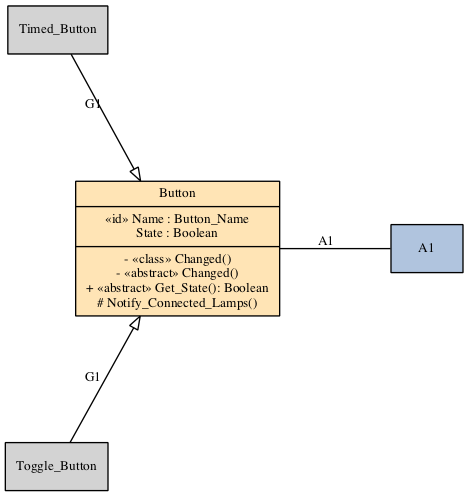
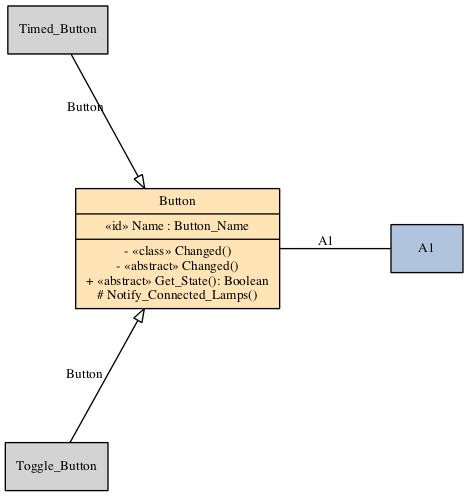
Merged tuml-mode.

Changed region(s): [[0.1496, 0.332, 0.5983, 0.664], [0.1496, 0.7243, 0.2094, 0.7847], [0.1496, 0.1811, 0.2094, 0.2414]]

diff --git a/House_Management.html b/House_Management.html
@@ -51,30 +51,30 @@
    <body>
       <h1>House_Management</h1>
       <p xmlns="">Copyright (C) Simon Wright &lt;simon@pushface.org&gt;</p>
-      <p xmlns="">This package is free software; you can redistribute it and/or modify it under terms of the GNU General Public License as published
-         by the Free Software Foundation; either version 2, or (at your option) any later version. This package is distributed in the
-         hope that it will be useful, but WITHOUT ANY WARRANTY; without even the implied warranty of MERCHANTABILITY or FITNESS FOR
-         A PARTICULAR PURPOSE. See the GNU General Public License for more details. You should have received a copy of the GNU General
-         Public License distributed with this package; see file COPYING. If not, write to the Free Software Foundation, 59 Temple Place
-         - Suite 330, Boston, MA 02111-1307, USA.
+      <p xmlns="">     This package is free software; you can redistribute it and/or modify it      under terms of the GNU General Public License
+         as published by the Free      Software Foundation; either version 2, or (at your option) any later      version. This package
+         is distributed in the hope that it will be useful,      but WITHOUT ANY WARRANTY; without even the implied warranty of   
+         MERCHANTABILITY or FITNESS FOR A PARTICULAR PURPOSE. See the GNU      General Public License for more details. You should
+         have received      a copy of the GNU General Public License distributed with this package;      see file COPYING. If not,
+         write to the Free Software Foundation, 59      Temple Place - Suite 330, Boston, MA 02111-1307, USA.
       </p>
-      <p xmlns="">This domain represents an electronic household control system.</p>
-      <p xmlns="">The first release only manages the stairwell lighting system.</p>
+      <p xmlns="">     This domain represents an electronic household control system.</p>
+      <p xmlns="">     The first release only manages the stairwell lighting system.</p>
       <h1>Contents</h1>
       <h2>All classes</h2><map xmlns="" id="overall" name="overall">
-         <area shape="rect" id="node1" href="#A1" title="\N" alt="" coords="256,121,328,170">
+         <area shape="rect" id="node1" href="#A1" title="\N" alt="" coords="257,121,329,170">
          <area shape="rect" id="node2" href="#Button" title="\N" alt="" coords="144,6,216,55">
-         <area shape="poly" id="edge2" href="#A1" title="A1" alt="" coords="205,53,271,119,267,123,201,57">
+         <area shape="poly" id="edge2" href="#A1" title="A1" alt="" coords="205,53,272,119,268,123,202,57">
          <area shape="rect" id="edge2-label" href="#A1" title="A1" alt="" coords="244,81,261,95">
          <area shape="rect" id="node4" href="#Timed_Button" title="\N" alt="" coords="5,121,104,170">
-         <area shape="poly" id="edge3" href="#G1" title="G1" alt="" coords="146,66,82,123,78,119,142,62">
-         <area shape="rect" id="edge3-label" href="#G1" title="G1" alt="" coords="125,81,143,95">
+         <area shape="poly" id="edge3" href="#Button" title="Button" alt="" coords="146,66,82,123,78,119,142,62">
+         <area shape="rect" id="edge3-label" href="#Button" title="Button" alt="" coords="125,81,163,95">
          <area shape="rect" id="node5" href="#Toggle_Button" title="\N" alt="" coords="129,121,231,170">
-         <area shape="poly" id="edge4" href="#G1" title="G1" alt="" coords="183,69,183,121,177,121,177,69">
-         <area shape="rect" id="edge4-label" href="#G1" title="G1" alt="" coords="180,81,197,95">
-         <area shape="rect" id="node3" href="#Lamp" title="\N" alt="" coords="256,6,328,55">
-         <area shape="poly" id="edge1" href="#A1" title="A1" alt="" coords="295,55,295,121,289,121,289,55">
-         <area shape="rect" id="edge1-label" href="#A1" title="A1" alt="" coords="292,81,309,95"></map><img src="House_Management.images/House_Management.overall.png" border="0" ismap="true" usemap="#overall" alt="Class diagram for House_Management"></img><h2>Private Classes</h2>
+         <area shape="poly" id="edge4" href="#Button" title="Button" alt="" coords="183,69,183,121,177,121,177,69">
+         <area shape="rect" id="edge4-label" href="#Button" title="Button" alt="" coords="180,81,217,95">
+         <area shape="rect" id="node3" href="#Lamp" title="\N" alt="" coords="260,6,332,55">
+         <area shape="poly" id="edge1" href="#A1" title="A1" alt="" coords="298,55,297,121,291,121,293,55">
+         <area shape="rect" id="edge1-label" href="#A1" title="A1" alt="" coords="296,81,313,95"></map><img src="House_Management.images/House_Management.overall.png" border="0" ismap="true" usemap="#overall" alt="Class diagram for House_Management"></img><h2>Private Classes</h2>
       <ul>
          <li xmlns=""><a href="#A1">A1</a></li>
          <li xmlns=""><a href="#Button">Button</a></li>
@@ -84,7 +84,7 @@
       </ul>
       <h2>Inheritance relationships</h2>
       <ul>
-         <li xmlns=""><a href="#G1">G1</a></li>
+         <li xmlns=""><a href="#Button">Button</a></li>
       </ul>
       <h2>Types</h2>
       <ul>
@@ -104,48 +104,41 @@
          <area shape="rect" id="edge2-label" href="#A1" title="A1" alt="" coords="280,29,297,44">
          <area shape="rect" id="node3" href="#Lamp" title="\N" alt="" coords="5,19,77,69">
          <area shape="poly" id="edge1" href="#A1" title="A1" alt="" coords="176,47,77,47,77,41,176,41">
-         <area shape="rect" id="edge1-label" href="#A1" title="A1" alt="" coords="109,29,127,44"></map><img xmlns="" src="House_Management.images/House_Management.A1.class.png" border="0" ismap="true" usemap="#A1.class" alt="Context class diagram for A1"><p xmlns="">Eacb Button controls one or more Lamps; each Lamp is controlled by one or more Buttons.</p>
-      <p xmlns="">There's no association-specific data, but this has to be an association class because it's a many-to-many relationship.</p>
+         <area shape="rect" id="edge1-label" href="#A1" title="A1" alt="" coords="109,29,127,44"></map><img xmlns="" src="House_Management.images/House_Management.A1.class.png" border="0" ismap="true" usemap="#A1.class" alt="Context class diagram for A1"><p xmlns="">Eacb Button controls one or more Lamps; each Lamp is controlled by        one or more Buttons.</p>
+      <p xmlns="">       There's no association-specific data, but this has to be an        association class because it's a many-to-many relationship.</p>
       <p xmlns="">This is an Association Class.</p>
       <h3 xmlns="">Roles</h3>
       <p xmlns=""><a href="#Button">Button</a> (1..n) <i>Controls</i> (1..n) <a href="#Lamp">Lamp</a></p>
       <p xmlns=""><a href="#Lamp">Lamp</a> (1..n) <i>Is_Controlled_By</i> (1..n) <a href="#Button">Button</a></p>
       <h2 xmlns=""><a name="Button">Button</a></h2><map xmlns="" id="Button.class" name="Button.class">
-         <area shape="rect" id="node1" href="#Button" title="{Button|&laquo;id&raquo; Name : Button_Name\nState : Boolean|- &laquo;class&raquo; Changed()\n- &laquo;abstract&raquo; Changed()\n+ &laquo;abstract&raquo; Get_State(): Boolean\n# Notify_Connected_Lamps()}" alt="" coords="76,181,280,317">
+         <area shape="rect" id="node1" href="#Button" title="{Button|&laquo;id&raquo; Name : Button_Name|- &laquo;class&raquo; Changed()\n- &laquo;abstract&raquo; Changed()\n+ &laquo;abstract&raquo; Get_State(): Boolean\n# Notify_Connected_Lamps()}" alt="" coords="76,188,280,309">
          <area shape="rect" id="node2" href="#A1" title="\N" alt="" coords="391,224,463,273">
          <area shape="poly" id="edge1" href="#A1" title="A1" alt="" coords="280,246,391,246,391,251,280,251">
          <area shape="rect" id="edge1-label" href="#A1" title="A1" alt="" coords="318,234,335,249">
          <area shape="rect" id="node3" href="#Timed_Button" title="\N" alt="" coords="8,5,108,55">
-         <area shape="poly" id="edge2" href="#G1" title="G1" alt="" coords="73,53,136,168,132,170,69,56">
-         <area shape="rect" id="edge2-label" href="#G1" title="G1" alt="" coords="85,97,103,112">
+         <area shape="poly" id="edge2" href="#Button" title="Button" alt="" coords="73,53,140,175,136,177,69,56">
+         <area shape="rect" id="edge2-label" href="#Button" title="Button" alt="" coords="67,101,105,115">
          <area shape="rect" id="node4" href="#Toggle_Button" title="\N" alt="" coords="5,442,108,491">
-         <area shape="poly" id="edge3" href="#G1" title="G1" alt="" coords="68,441,131,327,136,329,72,444">
-         <area shape="rect" id="edge3-label" href="#G1" title="G1" alt="" coords="85,371,102,385"></map><img xmlns="" src="House_Management.images/House_Management.Button.class.png" border="0" ismap="true" usemap="#Button.class" alt="Context class diagram for Button"><p xmlns="">There is a pushbutton on each landing. Each pushbutton controls a number of Lamps; when the button is pushed, the lamps are
-         activated.
+         <area shape="poly" id="edge3" href="#Button" title="Button" alt="" coords="68,441,135,320,140,322,72,444">
+         <area shape="rect" id="edge3-label" href="#Button" title="Button" alt="" coords="66,367,104,382"></map><img xmlns="" src="House_Management.images/House_Management.Button.class.png" border="0" ismap="true" usemap="#Button.class" alt="Context class diagram for Button"><p xmlns="">There are one or more pushbuttons on each landing. Each pushbutton        controls a number of Lamps; if any of the controlling
+         Buttons is set,        the controlled Lamp is lit.
       </p>
-      <p xmlns="">Supertype in <a href="#G1">G1</a>.
+      <p xmlns="">Supertype in <a href="#Button">Button</a>.
          
       </p>
       <h3 xmlns="">Identifying attributes</h3>
       <dl xmlns="">
          <dt>Name : <a href="#Button_Name">Button_Name</a></dt>
          <dd>
-            <p>Each Button is uniquely identified by its name. The name corresponds to the geographical location of the button.</p>
-         </dd>
-      </dl>
-      <h3 xmlns="">Normal attributes</h3>
-      <dl xmlns="">
-         <dt>State : Boolean, initial value False</dt>
-         <dd>
-            <p>The current state of the Button.</p>
+            <p>Each Button is uniquely identified by its name. The name corresponds          to the geographical location of the button.</p>
          </dd>
       </dl>
       <h3 xmlns="">Private class operations</h3>
       <dl xmlns="">
          <dt><a name="Button.Changed">Changed</a></dt>
          <dd>
-            <p>Acts as receiver of state changes from Digital IO, via Input_Signal State Callback. Calls the instance Changed so the Button
-               can take the appropriate action.
+            <p>Acts as receiver of state changes from Digital IO, via          Signal State Callback. Calls the instance Changed so the Button
+                        can take the appropriate action.
             </p>
             <p>Parameters:</p>
             <dl>
@@ -158,15 +151,13 @@
       <dl xmlns="">
          <dt><a name="Button.Get_State">Get_State</a>, abstract returns Boolean
          </dt>
-         <dd>
-            <p>Returns the Button's State.</p>
-         </dd>
+         <dd></dd>
       </dl>
       <h3 xmlns="">Protected instance operations</h3>
       <dl xmlns="">
          <dt><a name="Button.Notify_Connected_Lamps">Notify_Connected_Lamps</a></dt>
          <dd>
-            <p>Called to indicate to connected Lamps that the Button's state has changed.</p>
+            <p>Called to indicate to connected Lamps that the Button's state          has changed.</p>
          </dd>
       </dl>
       <h3 xmlns="">Private instance operations</h3>
@@ -190,10 +181,14 @@
          <area shape="rect" id="node1" href="#Lamp" title="{Lamp|&laquo;id&raquo; Name : Lamp_Name|- &laquo;class&raquo; Initialize()\n+ Changed()\n- Output_For_Lamp(): Output_Signal}" alt="" coords="5,5,229,112">
          <area shape="rect" id="node2" href="#A1" title="\N" alt="" coords="325,34,397,83">
          <area shape="poly" id="edge1" href="#A1" title="A1" alt="" coords="229,56,325,56,325,61,229,61">
-         <area shape="rect" id="edge1-label" href="#A1" title="A1" alt="" coords="260,44,277,59"></map><img xmlns="" src="House_Management.images/House_Management.Lamp.class.png" border="0" ismap="true" usemap="#Lamp.class" alt="Context class diagram for Lamp"><h3 xmlns="">Identifying attributes</h3>
+         <area shape="rect" id="edge1-label" href="#A1" title="A1" alt="" coords="260,44,277,59"></map><img xmlns="" src="House_Management.images/House_Management.Lamp.class.png" border="0" ismap="true" usemap="#Lamp.class" alt="Context class diagram for Lamp"><p xmlns="">There is a lamp between each pair of landings.</p>
+      <p xmlns="">       A Lamp is connected to one or more Buttons; it is lit if any        of the connected Buttons is set.</p>
+      <h3 xmlns="">Identifying attributes</h3>
       <dl xmlns="">
          <dt>Name : <a href="#Lamp_Name">Lamp_Name</a></dt>
-         <dd></dd>
+         <dd>
+            <p>Each Lamp is uniquely identified by its name. The name corresponds          to the geographical location of the lamp.</p>
+         </dd>
       </dl>
       <h3 xmlns="">Private class operations</h3>
       <dl xmlns="">
@@ -207,8 +202,8 @@
       <dl xmlns="">
          <dt><a name="Lamp.Changed">Changed</a></dt>
          <dd>
-            <p>This operation is used by a linked Button to tell the Lamp to evaluate all its linked Buttons to see if any are Set (in which
-               case the Lamp should be lit) or all are Reset (in which case the Lamp should be off).
+            <p>This operation is used by a linked Button to tell the Lamp          to evaluate all its linked Buttons to see if any are Set
+               (in which          case the Lamp should be lit) or all are Reset (in which case the          Lamp should be off).
             </p>
          </dd>
       </dl>
@@ -226,17 +221,17 @@
       <h2 xmlns=""><a name="Timed_Button">Timed_Button</a></h2><map xmlns="" id="Timed_Button.class" name="Timed_Button.class">
          <area shape="rect" id="node1" href="#Timed_Button" title="{Timed_Button|Timeout : Timer|# Changed()\n- Clear_Timeout()\n+ Get_State(): Boolean\n- Set_Timeout()}" alt="" coords="5,5,151,127">
          <area shape="rect" id="node2" href="#Button" title="\N" alt="" coords="247,41,319,91">
-         <area shape="poly" id="edge1" href="#G1" title="G1" alt="" coords="233,69,151,69,151,63,233,63">
-         <area shape="rect" id="edge1-label" href="#G1" title="G1" alt="" coords="175,51,192,66"></map><img xmlns="" src="House_Management.images/House_Management.Timed_Button.class.png" border="0" ismap="true" usemap="#Timed_Button.class" alt="Context class diagram for Timed_Button"><p xmlns="">When a Timed Button is pushed, it remains set for a preset period.</p>
-      <p xmlns="">If it is pushed again while it is still set, the set period is extended by the preset period.</p>
-      <p xmlns="">Subtype of <a href="#Button">Button</a> in <a href="#G1">G1</a>.
+         <area shape="poly" id="edge1" href="#Button" title="Button" alt="" coords="233,69,151,69,151,63,233,63">
+         <area shape="rect" id="edge1-label" href="#Button" title="Button" alt="" coords="155,51,192,66"></map><img xmlns="" src="House_Management.images/House_Management.Timed_Button.class.png" border="0" ismap="true" usemap="#Timed_Button.class" alt="Context class diagram for Timed_Button"><p xmlns="">When a Timed Button is pushed, it remains set for a preset period.</p>
+      <p xmlns="">       If it is pushed again while it is still set, the set period        is extended by the preset period.</p>
+      <p xmlns="">Subtype of <a href="#Button">Button</a> in <a href="#Button">Button</a>.
          
       </p>
       <h3 xmlns="">Normal attributes</h3>
       <dl xmlns="">
          <dt>Timeout : Timer</dt>
          <dd>
-            <p>This ColdFrame Timer is used to reset the Button at the end of its activation period.</p>
+            <p>This ColdFrame Timer is used to reset the Button at the end of          its activation period.</p>
          </dd>
       </dl>
       <h3 xmlns="">States</h3>
@@ -294,15 +289,15 @@
          <dt><a name="Timed_Button.Get_State">Get_State</a> returns Boolean
          </dt>
          <dd>
-            <p>This overriding implementation returns the current state of the Timed Button (True =&gt; on)</p>
+            <p>This overriding implementation returns the current state of the          Timed Button (True =&gt; on)</p>
          </dd>
       </dl>
       <h3 xmlns="">Protected instance operations</h3>
       <dl xmlns="">
          <dt><a name="Timed_Button.Changed">Changed</a></dt>
          <dd>
-            <p>This overriding implementation is called to indicate that the Button has been pushed or released.</p>
-            <p>For this kind of Button, actions a Button_Pushed event in case of a push; a release is ignored.</p>
+            <p>This overriding implementation is called to indicate that the          Button has been pushed or released.</p>
+            <p>         For this kind of Button, actions a Button_Pushed event in case of          a push; a release is ignored.</p>
             <p>Parameters:</p>
             <dl>
                <dt>Pushed : in Boolean</dt>
@@ -318,15 +313,15 @@
          </dd>
          <dt><a name="Timed_Button.Set_Timeout">Set_Timeout</a></dt>
          <dd>
-            <p>This state entry action sets the instance Timeout to the required activation period.</p>
+            <p>This state entry action sets the instance Timeout to the          required activation period.</p>
          </dd>
       </dl>
       <h2 xmlns=""><a name="Toggle_Button">Toggle_Button</a></h2><map xmlns="" id="Toggle_Button.class" name="Toggle_Button.class">
          <area shape="rect" id="node1" href="#Toggle_Button" title="{Toggle_Button|On : Boolean|# Changed()\n+ Get_State(): Boolean}" alt="" coords="5,5,151,97">
          <area shape="rect" id="node2" href="#Button" title="\N" alt="" coords="247,27,319,76">
-         <area shape="poly" id="edge1" href="#G1" title="G1" alt="" coords="233,54,151,54,151,49,233,49">
-         <area shape="rect" id="edge1-label" href="#G1" title="G1" alt="" coords="175,37,192,51"></map><img xmlns="" src="House_Management.images/House_Management.Toggle_Button.class.png" border="0" ismap="true" usemap="#Toggle_Button.class" alt="Context class diagram for Toggle_Button"><p xmlns="">A Toggle Button is a push-on, push-off toggle.</p>
-      <p xmlns="">Subtype of <a href="#Button">Button</a> in <a href="#G1">G1</a>.
+         <area shape="poly" id="edge1" href="#Button" title="Button" alt="" coords="233,54,151,54,151,49,233,49">
+         <area shape="rect" id="edge1-label" href="#Button" title="Button" alt="" coords="155,37,192,51"></map><img xmlns="" src="House_Management.images/House_Management.Toggle_Button.class.png" border="0" ismap="true" usemap="#Toggle_Button.class" alt="Context class diagram for Toggle_Button"><p xmlns="">A Toggle Button is a push-on, push-off toggle.</p>
+      <p xmlns="">Subtype of <a href="#Button">Button</a> in <a href="#Button">Button</a>.
          
       </p>
       <h3 xmlns="">Normal attributes</h3>
@@ -339,16 +334,16 @@
          <dt><a name="Toggle_Button.Get_State">Get_State</a> returns Boolean
          </dt>
          <dd>
-            <p>This overriding implementation returns the current state of the Toggle Button (from On)</p>
+            <p>This overriding implementation returns the current state of the          Toggle Button (from On)</p>
          </dd>
       </dl>
       <h3 xmlns="">Protected instance operations</h3>
       <dl xmlns="">
          <dt><a name="Toggle_Button.Changed">Changed</a></dt>
          <dd>
-            <p>This overriding implementation is called to indicate that the Button has been pushed or released.</p>
-            <p>For this kind of Button, toggles On in case of a push; a release is ignored.</p>
-            <p>Notifies connected lamps of the change.</p>
+            <p>This overriding implementation is called to indicate that the          Button has been pushed or released.</p>
+            <p>         For this kind of Button, toggles On in case of a push; a release          is ignored.</p>
+            <p>         Notifies connected lamps of the change.</p>
             <p>Parameters:</p>
             <dl>
                <dt>Pushed : in Boolean</dt>
@@ -357,7 +352,7 @@
          </dd>
       </dl>
       <h1>Inheritance relationships</h1>
-      <h2 xmlns=""><a name="G1">G1</a></h2>
+      <h2 xmlns=""><a name="Button">Button</a></h2>
       <h3 xmlns="">Superclass</h3>
       <p xmlns=""><a href="#Button">Button</a></p>
       <h3 xmlns="">Children</h3>
@@ -367,25 +362,25 @@
       </ul>
       <h1>Types</h1>
       <h2 xmlns=""><a name="Button_Name">Button_Name</a></h2>
-      <p xmlns="">There is a pushbutton on each landing. This type names the pushbuttons.</p>
+      <p xmlns="">There are pushbuttons on each landing. This type names        the pushbuttons.</p>
       <p xmlns="">An enumeration, with literals:</p>
       <ul xmlns="">
-         <li>Basement_Toggle</li>
-         <li>Ground_Floor_Toggle</li>
-         <li>First_Floor_Toggle</li>
-         <li>Second_Floor_Toggle</li>
          <li>Basement_Timed</li>
          <li>Ground_Floor_Timed</li>
          <li>First_Floor_Timed</li>
          <li>Second_Floor_Timed</li>
+         <li>Basement_Toggle</li>
+         <li>Ground_Floor_Toggle</li>
+         <li>First_Floor_Toggle</li>
+         <li>Second_Floor_Toggle</li>
       </ul>
       <h2 xmlns=""><a name="Input_Signal_State">Input_Signal_State</a></h2>
-      <p xmlns="">This type is used by the supporting Digital IO domain to report input (switch) state changes.</p>
+      <p xmlns="">This type is used by the supporting Digital IO domain to report        input (switch) state changes.</p>
       <p xmlns="">Imported from <tt>Digital_IO</tt>.
       </p>
       <h2 xmlns=""><a name="Lamp_Name">Lamp_Name</a></h2>
-      <p xmlns="">There is a lamp beween each pair of landings. This type names the lamps; the name is that of the landing on whose ceiling
-         the lamp is fixed.
+      <p xmlns="">There is a lamp beween each pair of landings. This type names the        lamps; the name is that of the landing on whose ceiling
+         the lamp is        fixed.
       </p>
       <p xmlns="">An enumeration, with literals:</p>
       <ul xmlns="">
@@ -395,15 +390,18 @@
          <li>Second_Floor</li>
       </ul>
       <h2 xmlns=""><a name="Output_Signal">Output_Signal</a></h2>
-      <p xmlns="">This type is used by the supporting Digital IO domain to name outputs (lamps).</p>
+      <p xmlns="">This type is used by the supporting Digital IO domain to name        outputs (lamps).</p>
       <p xmlns="">Imported from <tt>Digital_IO</tt>.
       </p>
       <h2 xmlns=""><a name="Timed_Button_Name">Timed_Button_Name</a></h2>
+      <p xmlns="">Some of the pushbuttons are 'timed', that is, the electrical        connection is made for a period after the button is pushed.
+                If the button is pushed again before the period expires, the        made period is extended.
+      </p>
       <p xmlns="">A constrained version  of <a href="#Button_Name">Button_Name</a> from Basement_Timed to Second_Floor_Timed.
       </p>
       <h2 xmlns=""><a name="Toggle_Button_Name">Toggle_Button_Name</a></h2>
-      <p xmlns="">Some of the pushbuttons are "toggled", that is, the electrical connection is made when the button is pushed, and remains made
-         until the Button is pushed again.
+      <p xmlns="">Some of the pushbuttons are 'toggled', that is, the electrical        connection is made when the button is pushed, and remains
+         made        until the Button is pushed again.
       </p>
       <p xmlns="">A constrained version  of <a href="#Button_Name">Button_Name</a> from Basement_Toggle to Second_Floor_Toggle.
       </p>

diff --git a/Digital_IO.html b/Digital_IO.html
@@ -51,14 +51,14 @@
    <body>
       <h1>Digital_IO</h1>
       <p xmlns="">Copyright (C) Simon Wright &lt;simon@pushface.org&gt;</p>
-      <p xmlns="">This package is free software; you can redistribute it and/or modify it under terms of the GNU General Public License as published
-         by the Free Software Foundation; either version 2, or (at your option) any later version. This package is distributed in the
-         hope that it will be useful, but WITHOUT ANY WARRANTY; without even the implied warranty of MERCHANTABILITY or FITNESS FOR
-         A PARTICULAR PURPOSE. See the GNU General Public License for more details. You should have received a copy of the GNU General
-         Public License distributed with this package; see file COPYING. If not, write to the Free Software Foundation, 59 Temple Place
-         - Suite 330, Boston, MA 02111-1307, USA.
+      <p xmlns="">     This package is free software; you can redistribute it and/or      modify it under terms of the GNU General Public License
+         as      published by the Free Software Foundation; either version 2,      or (at your option) any later version. This package
+         is distributed      in the hope that it will be useful, but WITHOUT ANY WARRANTY;      without even the implied warranty of
+         MERCHANTABILITY or FITNESS      FOR A PARTICULAR PURPOSE. See the GNU General Public License for      more details. You should
+         have received a copy of the GNU General      Public License distributed with this package; see file COPYING.      If not,
+         write to the Free Software Foundation, 59 Temple Place -      Suite 330, Boston, MA 02111-1307, USA.
       </p>
-      <p xmlns="">Contains the input-output domain Digital_IO for ColdFrame's House Management demonstration.</p>
+      <p xmlns="">     Contains the input-output domain Digital_IO for ColdFrame's House      Management demonstration.</p>
       <h1>Contents</h1>
       <h2>All classes</h2><map xmlns="" id="overall" name="overall"></map><img src="Digital_IO.images/Digital_IO.overall.png" border="0" ismap="true" usemap="#overall" alt="Class diagram for Digital_IO"></img><h2>Types</h2>
       <ul>
@@ -70,8 +70,8 @@
       <hr></hr>
       <h1>Types</h1>
       <h2 xmlns=""><a name="Implementation_Class_P">Implementation_Class_P</a></h2>
-      <p xmlns="">This type is a class-wide pointer to Implementation; the required bottom half calls Register to connect itself to the top
-         half.
+      <p xmlns="">This type is a class-wide pointer to the abstract type        Implementation; the required concrete bottom half calls    
+            Register to connect itself to the top half.
       </p>
       <p xmlns="">Imported from <tt>Digital_IO_Support</tt>.
       </p>
@@ -79,7 +79,7 @@
       <dl xmlns="">
          <dt><a name="Implementation_Class_P.Register">Register</a></dt>
          <dd>
-            <p>The required bottom half calls Register to connect itself to the top half.</p>
+            <p>The required bottom half calls Register to connect itself to          the top half.</p>
             <p>Parameters:</p>
             <dl>
                <dt>Impl : in <a href="#Implementation_Class_P">Implementation_Class_P</a></dt>
@@ -105,7 +105,7 @@
          </dd>
       </dl>
       <h2 xmlns=""><a name="Input_Signal_State">Input_Signal_State</a></h2>
-      <p xmlns="">Provides application domains with callback facilities for input signal state changes.</p>
+      <p xmlns="">Provides application domains with callback facilities for          input signal state changes.</p>
       <p xmlns="">Callback support is provided.</p>
       <p xmlns="">A record type, with attributes:</p>
       <dl xmlns="">

diff --git a/compilation.html b/compilation.html
@@ -61,5 +61,8 @@ project Van_Fleet is
 end Van_Fleet;
 </pre>
 
+It would perhaps be more normal to put the project file one level up,
+above both the <tt>.impl</tt> and <tt>.gen</tt> directories.
+
 </body>
 </html>
